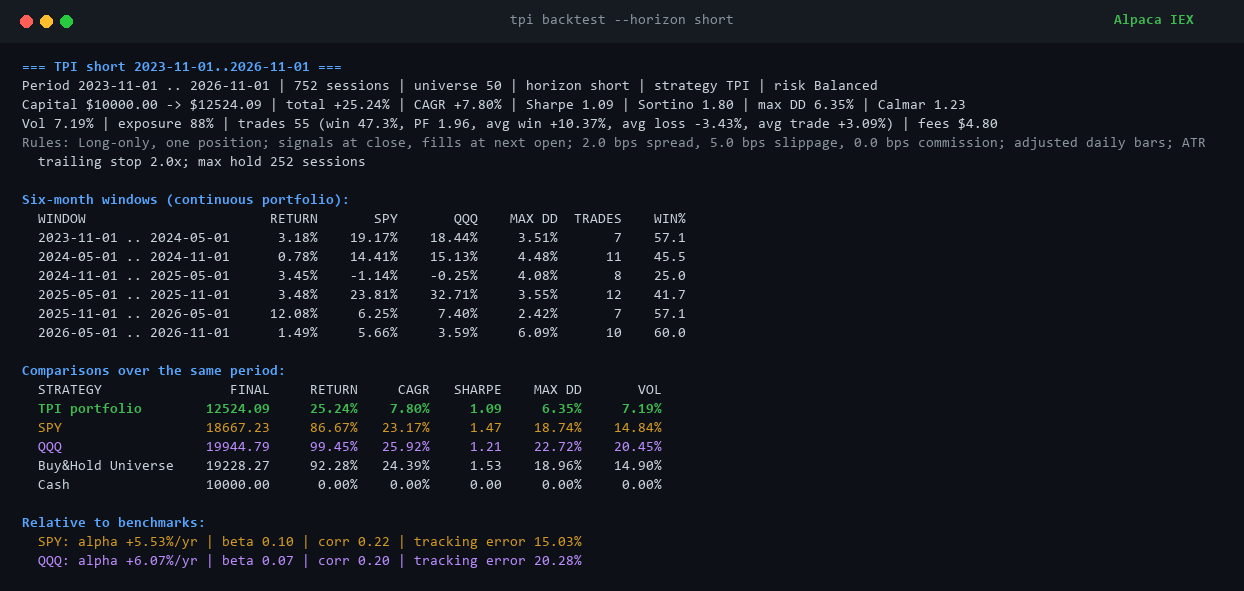
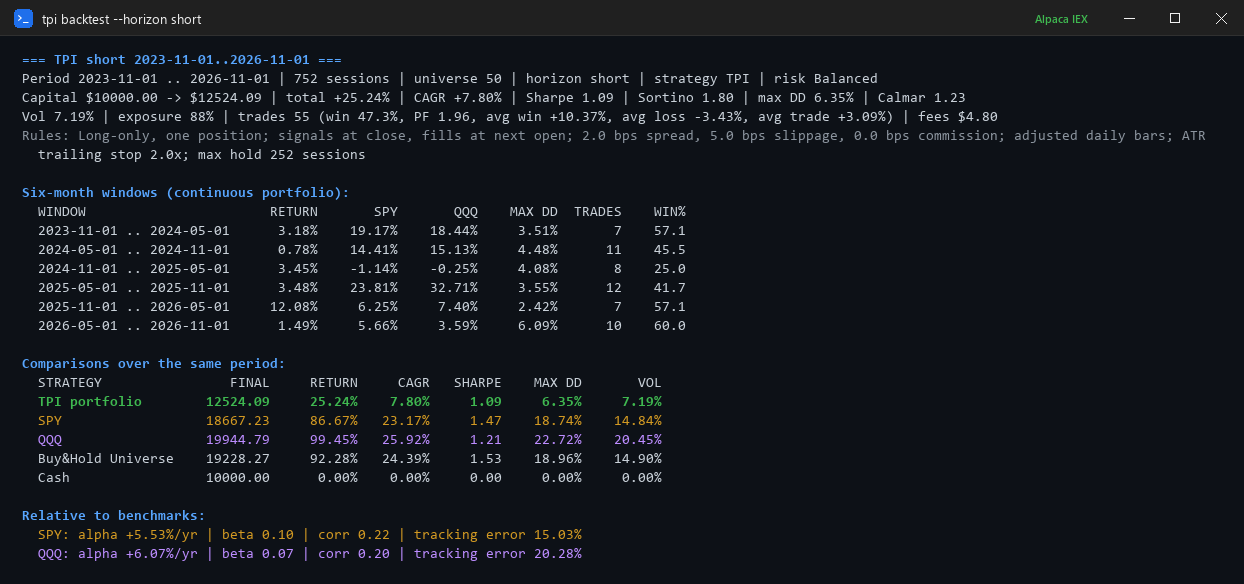
Make README and screenshots Windows-only

diff --git a/README.md b/README.md
@@ -4,19 +4,19 @@
 
 **Super fast algorithmic trading for US stocks, built entirely in Rust.**
 
-[![CI](https://github.com/kingabzpro/tpi-rs/actions/workflows/ci.yml/badge.svg?branch=main)](https://github.com/kingabzpro/tpi-rs/actions/workflows/ci.yml) [![Latest release](https://img.shields.io/badge/release-latest-blue)](https://github.com/kingabzpro/tpi-rs/releases/latest) ![Platforms](https://img.shields.io/badge/platform-Windows%20%7C%20Linux-lightgrey) ![Rust](https://img.shields.io/badge/rust-1.88%2B-orange) ![Tests](https://img.shields.io/badge/tests-63%20passing-brightgreen)
+[![CI](https://github.com/kingabzpro/tpi-rs/actions/workflows/ci.yml/badge.svg?branch=main)](https://github.com/kingabzpro/tpi-rs/actions/workflows/ci.yml) [![Latest release](https://img.shields.io/badge/release-latest-blue)](https://github.com/kingabzpro/tpi-rs/releases/latest) ![Platform](https://img.shields.io/badge/platform-Windows%2010%2F11-blue) ![Rust](https://img.shields.io/badge/rust-1.88%2B-orange) ![Tests](https://img.shields.io/badge/tests-63%20passing-brightgreen)
 
 </div>
 
 <p align="center">
   <a href="docs/screenshots/tui.png">
-    <img src="docs/screenshots/tui.png" alt="TPI-RS terminal dashboard with ranked signals, rating and trade plan" width="920">
+    <img src="docs/screenshots/tui.png" alt="TPI-RS Windows terminal dashboard with ranked signals, rating and trade plan" width="920">
   </a>
 </p>
 
-<p align="center"><sub>The dashboard (<code>tpi tui</code>): ranked signals, 26-vote rating, trade plan, chart, portfolio and backtests.</sub></p>
+<p align="center"><sub>Captured on Windows 11. The dashboard (<code>tpi tui</code>): ranked signals, 26-vote rating, trade plan, chart, portfolio and backtests.</sub></p>
 
-TPI-RS scans US stocks for Donchian breakouts, confirms them with EMA trend, RSI, ATR and volume filters, adds a 26-vote technical rating, then backtests or trades the result through Alpaca. No Python, Docker, WSL, GPU or ML model.
+TPI-RS is a Windows-native algorithmic trading system for US stocks. It scans for Donchian breakouts, confirms them with EMA trend, RSI, ATR and volume filters, adds a 26-vote technical rating, then backtests or trades the result through Alpaca. No Python, Docker, WSL, GPU or ML model.
 
 It is fast and small: scan math for 100 symbols takes 0.05 ms, a 50-symbol, 3-year backtest computes in 33 ms, and 100 symbols fit in 98 MB. It is not a market-beating strategy: SPY still wins on return, and the results below say so plainly.
 
@@ -28,7 +28,7 @@ It is fast and small: scan math for 100 symbols takes 0.05 ms, a 50-symbol, 3-ye
   </a>
 </p>
 
-Same $10,000, same period (November 2023 to November 2026), real Alpaca IEX adjusted bars, costs included.
+Measured on Windows 11. Same $10,000, same period (November 2023 to November 2026), real Alpaca IEX adjusted bars, costs included.
 
 | Portfolio | Total return | CAGR | Sharpe | Max drawdown |
 |---|---:|---:|---:|---:|
@@ -52,6 +52,8 @@ Same $10,000, same period (November 2023 to November 2026), real Alpaca IEX adju
 
 2026-07-31 to 2026-10-30, from the same daily equity curves. All three TPI horizons were negative over this stretch; SPY and QQQ were positive. The latest full six-month window is in [docs/BENCHMARKS.md](docs/BENCHMARKS.md).
 
+**Recent experiment:** a hard 1.2x volume gate lifted the short horizon to +33.47% in-sample, but 1.1x and 1.3x both underperformed. It was rejected as threshold-sensitive. Details in [docs/RESEARCH.md](docs/RESEARCH.md).
+
 > [!WARNING]
 > This is research software, not investment advice. It underperformed SPY over the sample. Live trading is disabled by default and requires deliberate confirmations. Paper trade first.
 
@@ -59,7 +61,7 @@ Same $10,000, same period (November 2023 to November 2026), real Alpaca IEX adju
 <summary><strong>Console output</strong>: real short-horizon backtest</summary>
 <br>
 
-![TPI-RS short-horizon backtest output](docs/screenshots/backtest.png)
+![TPI-RS short-horizon backtest output on Windows 11](docs/screenshots/backtest.png)
 
 </details>
 
@@ -88,23 +90,16 @@ The hot path is a precomputed causal series per symbol, a Rayon scan over the un
 
 Rules and per-horizon parameters: [docs/STRATEGY.md](docs/STRATEGY.md).
 
-## Run it
+## Run it on Windows
 
 No Rust, Cargo, Python or build tools required.
 
-| Platform | Download |
-|---|---|
-| Windows 10/11 x64 | [Latest release](https://github.com/kingabzpro/tpi-rs/releases/latest), `tpi-*-windows-x64.zip` |
-| Linux x64 (glibc) | [Latest release](https://github.com/kingabzpro/tpi-rs/releases/latest), `tpi-*-linux-x64-gnu.tar.gz` |
+[![Download for Windows](https://img.shields.io/badge/download-Windows%2010%2F11-blue?style=for-the-badge)](https://github.com/kingabzpro/tpi-rs/releases/latest)
 
-Every asset ships with a SHA-256 checksum. Extract it, then try the offline demo:
+The release includes the Windows zip and a matching `.sha256` file. The zip contains `tpi.exe`, `config/default.toml`, `.env.example`, and `README.md`. Extract it and try the offline demo:
 
 ```powershell
 .\tpi.exe --offline --tickers AAPL,MSFT,NVDA --mode scan --strategy compare
-```
-
-```bash
-./tpi --offline --tickers AAPL,MSFT,NVDA --mode scan --strategy compare
 ```
 
 For Alpaca data, copy `.env.example` to `.env`, add your paper keys, then run `.\tpi.exe doctor`. The Windows installer verifies the checksum and installs to `%LOCALAPPDATA%\TPI-RS`: [scripts/install-windows.ps1](scripts/install-windows.ps1).
